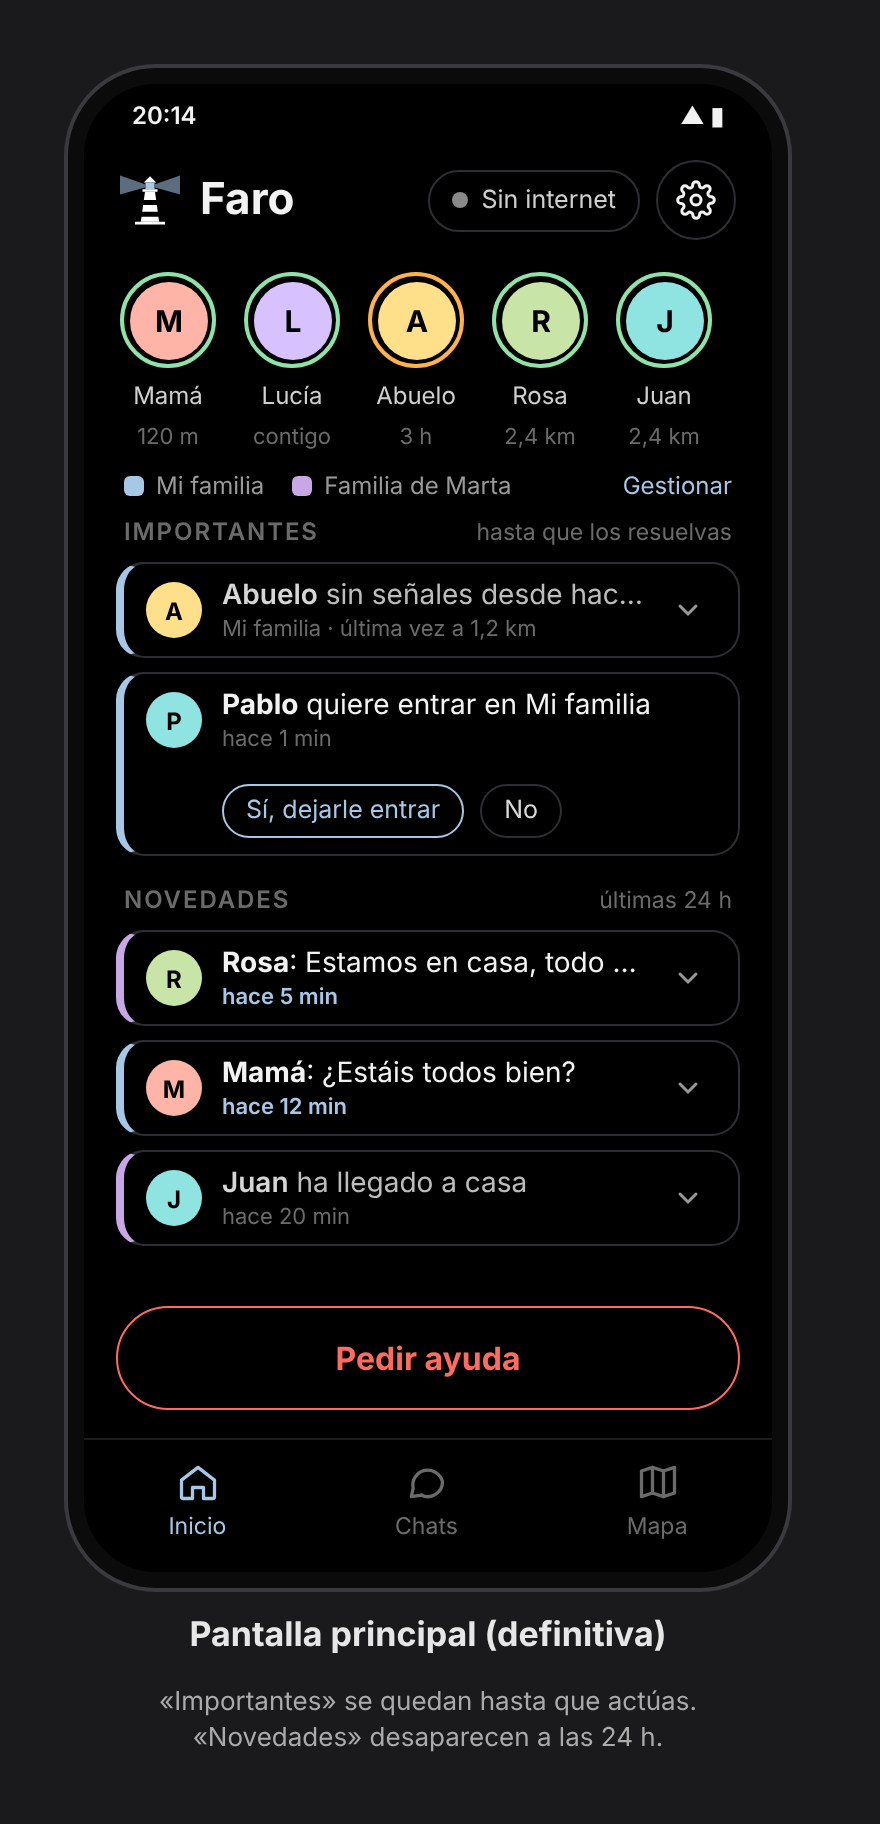
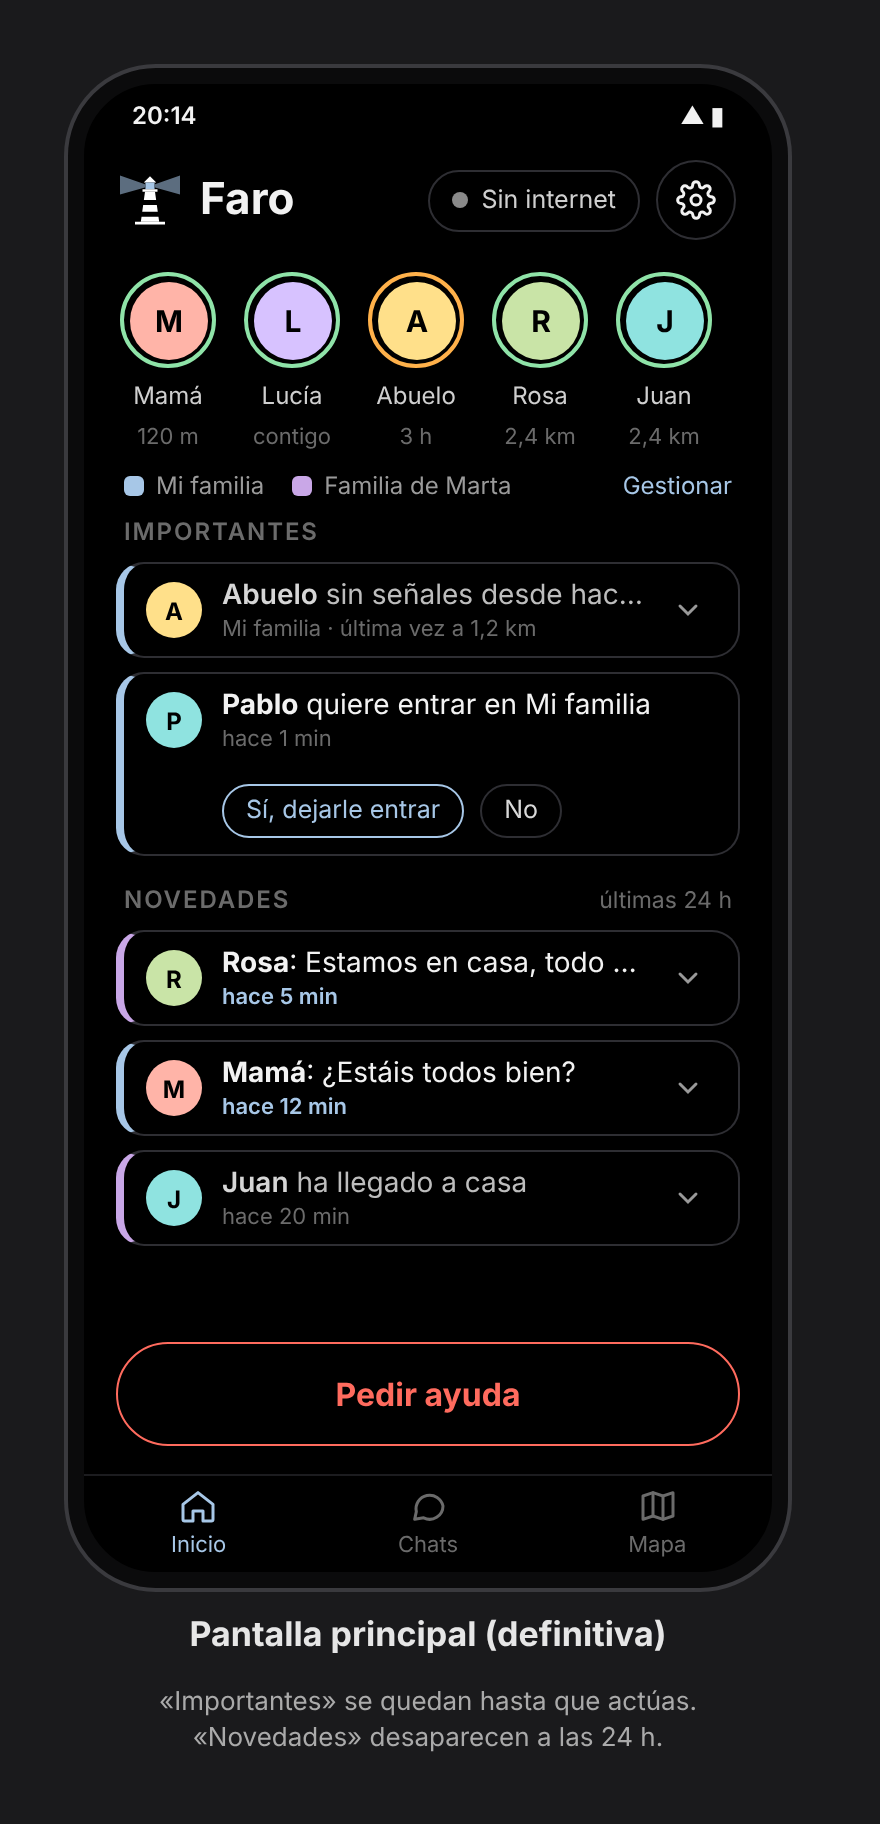
Rediseño: barra inferior compacta y sin «hasta que los resuelvas» [skip ci]
Claude-Session: https://claude.ai/code/session_018FNH5PjJp7CR1myogr8DFZ

diff --git a/docs/diseno/README.md b/docs/diseno/README.md
@@ -18,13 +18,13 @@ Decisiones tomadas pantalla a pantalla. Las imágenes son maquetas; se aplicará
 
 - **Cabecera:** logo y «Faro», etiqueta de conexión («● Sin internet») y engranaje de ajustes.
 - **Personas:** todas las de todos tus grupos en una fila de caras con aro de estado (verde bien, naranja sin noticias), nombre y distancia o tiempo. Debajo, la leyenda de colores de cada grupo y «Gestionar».
-- **Importantes** (se quedan hasta que actúes): petición de ayuda, alguien sin señales, solicitud para entrar en tu grupo (con «Sí, dejarle entrar» / «No» en la propia tarjeta; solo para el administrador).
+- **Importantes** (se quedan hasta que actúes; sin texto explicativo en la cabecera del bloque): petición de ayuda, alguien sin señales, solicitud para entrar en tu grupo (con «Sí, dejarle entrar» / «No» en la propia tarjeta; solo para el administrador).
 - **Novedades** (desaparecen a las 24 h; los mensajes siguen en su chat).
 - Cada tarjeta lleva a la izquierda el color de su grupo. El tiempo va debajo del mensaje para dejarle todo el ancho.
 - **No leído:** texto en blanco intenso y hora en azul; lo leído, en gris. Sin puntos (parecen estado «conectado»).
 - La flecha ⌄ despliega con animación el mensaje completo y sus acciones (Responder, Leído, Descartar; Ver en el mapa; Llamar…).
 - **Pedir ayuda:** botón (no deslizar) con confirmación antes de enviar.
-- **Barra inferior:** Inicio · Chats · Mapa.
+- **Barra inferior:** Inicio · Chats · Mapa, compacta (unos 48 dp de alto: icono de 20 y texto de 11), suficiente para tocar con comodidad.
 
 ## Pendientes de diseñar
 
